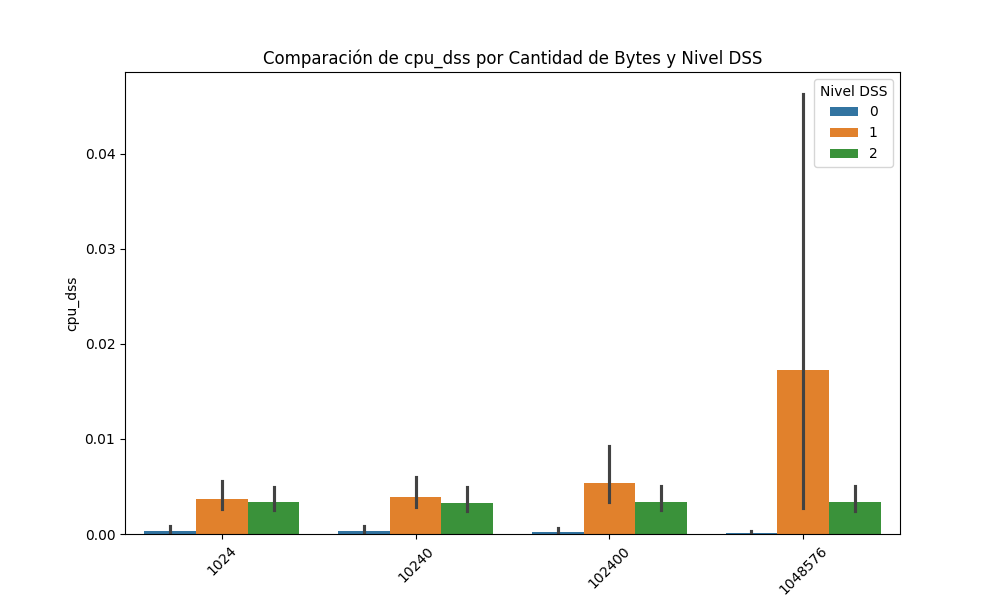
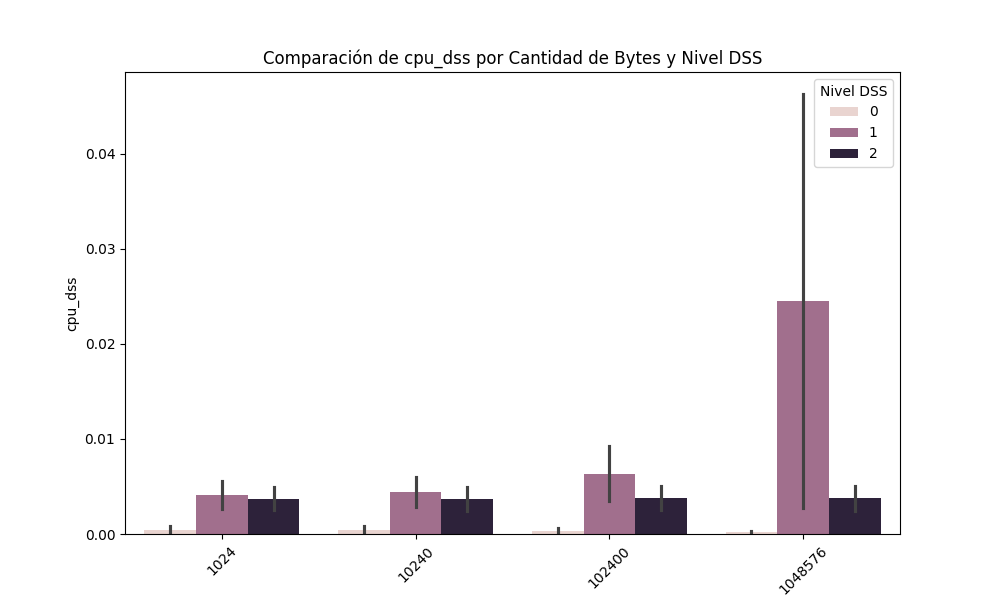
feat: visualizaciones en escala de grises

diff --git a/visualizaciones.py b/visualizaciones.py
@@ -21,14 +21,12 @@ comparison_columns = ['tiempo_kem_promedio', 'tiempo_dss', 'tiempo_mensaje',
                       'cpu_kem', 'cpu_dss', 'cpu_mensaje',
                       'ram_kem', 'ram_dss', 'ram_mensaje']
 
+# Define los patrones de relleno para cada nivel
+hatches = ['/', '\\', '|', '-', '+', 'x', 'o', 'O', '.']
+
 # Convertir 'cantidad_de_bytes_de_envio' a categórico para una mejor representación en la gráfica de barras
 df['cantidad_de_bytes_de_envio'] = pd.Categorical(df['cantidad_de_bytes_de_envio'])
 
-# Convertir 'nivel_dss' a categórico para una mejor representación en la gráfica de barras
-df['nivel_dss'] = pd.Categorical(df['nivel_dss'])
-
-# Convertir 'plataforma' a categórico para una mejor representación en la gráfica de barras
-df['plataforma'] = pd.Categorical(df['plataforma'])
 
 # Gráfica de barras donde 'cantidad_de_bytes_de_envio' es la categoría principal
 for column in comparison_columns:
@@ -44,6 +42,23 @@ for column in comparison_columns:
     plt.savefig(f'graficas/{column}_por_cantidad_bytes.png')
     plt.clf()
 
+# Gráfica de barras donde 'cantidad_de_bytes_de_envio' es la categoría principal, en escala de grises
+for column in comparison_columns:
+    plt.figure(figsize=(10, 6))
+    sns.barplot(x='cantidad_de_bytes_de_envio', y=column, hue='nivel_dss', data=df, palette='Greys')
+    plt.title(f'Comparación de {column} por Cantidad de Bytes y Nivel DSS')
+    plt.xlabel('Cantidad de Bytes de Envío')
+    plt.ylabel(column)
+    plt.xticks(rotation=45)
+    plt.legend(title='Nivel DSS')
+
+    # Guardar la gráfica en la carpeta 'graficas'
+    plt.savefig(f'graficas/{column}_por_cantidad_bytes_escalagris.png')
+    plt.clf()
+
+# Convertir 'nivel_dss' a categórico para una mejor representación en la gráfica de barras
+df['nivel_dss'] = pd.Categorical(df['nivel_dss'])
+
 # Gráfica de barras donde 'nivel_dss' es la categoría principal
 for column in comparison_columns:
     plt.figure(figsize=(10, 6))
@@ -58,6 +73,22 @@ for column in comparison_columns:
     plt.savefig(f'graficas/{column}_por_nivel_dss.png')
     plt.clf()
 
+# Gráfica de barras donde 'nivel_dss' es la categoría principal, en escala de grises
+for column in comparison_columns:
+    plt.figure(figsize=(10, 6))
+    sns.barplot(x='nivel_dss', y=column, hue='plataforma', data=df, palette='Greys')
+    plt.title(f'Comparación de {column} por Nivel DSS y Plataforma')
+    plt.xlabel('Nivel DSS')
+    plt.ylabel(column)
+    plt.xticks(rotation=45)
+    plt.legend(title='Plataforma')
+
+    # Guardar la gráfica en la carpeta 'graficas'
+    plt.savefig(f'graficas/{column}_por_nivel_dss_escalagris.png')
+    plt.clf()
+
+# Convertir 'plataforma' a categórico para una mejor representación en la gráfica de barras
+df['plataforma'] = pd.Categorical(df['plataforma'])
 
 # Gráfica de barras donde 'plataforma' es la categoría principal
 for column in comparison_columns:
@@ -71,4 +102,18 @@ for column in comparison_columns:
 
     # Guardar la gráfica en la carpeta 'graficas'
     plt.savefig(f'graficas/{column}_por_plataforma.png')
+    plt.clf()
+
+# Gráfica de barras donde 'plataforma' es la categoría principal, en escala de grises
+for column in comparison_columns:
+    plt.figure(figsize=(10, 6))
+    sns.barplot(x='plataforma', y=column, hue='nivel_dss', data=df, palette='Greys')
+    plt.title(f'Comparación de {column} por Plataforma y Nivel DSS')
+    plt.xlabel('Plataforma')
+    plt.ylabel(column)
+    plt.xticks(rotation=45)
+    plt.legend(title='Nivel DSS')
+
+    # Guardar la gráfica en la carpeta 'graficas'
+    plt.savefig(f'graficas/{column}_por_plataforma_escalagris.png')
     plt.clf()
